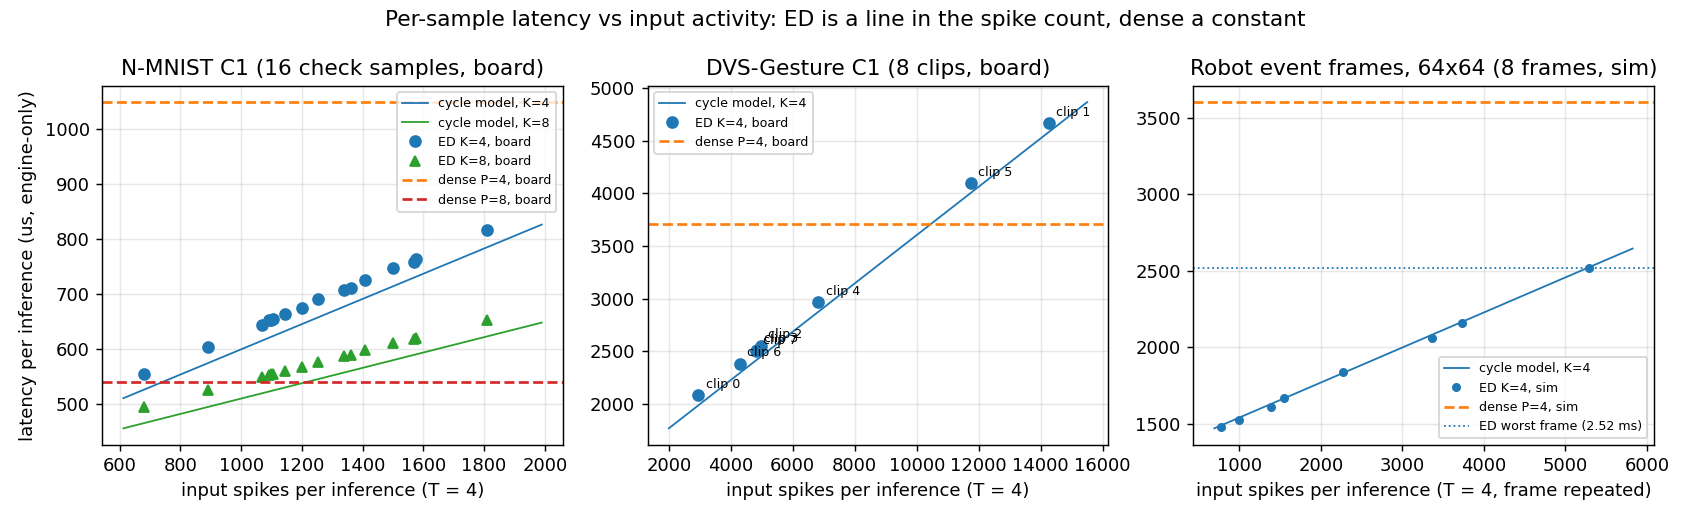
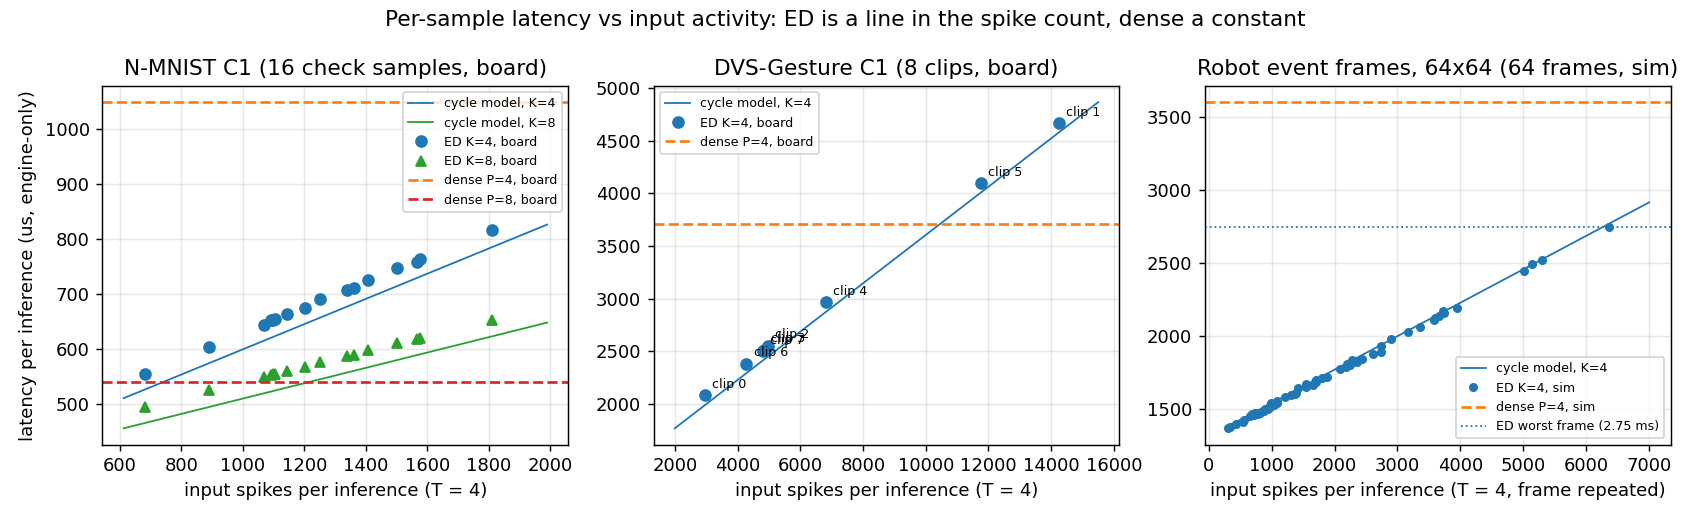
C0048: the robot-frame latency was an 8-frame number; all 64 frames benched in one run (8,388,608 comparisons bit-identical): ED K=4 1.73 ms mean / 2.75 ms worst vs dense 3.60 ms (2.09x mean, 1.31x worst); quotes corrected in place, per-sample figure reads the 64-row file

diff --git a/docs/thesis_outline_build.py b/docs/thesis_outline_build.py
@@ -12,7 +12,7 @@ from docx.enum.text import WD_ALIGN_PARAGRAPH, WD_BREAK
 from docx.oxml.ns import qn
 from docx.oxml import OxmlElement
 
-REVISED = "2026-09-20j"
+REVISED = "2026-09-20k"
 ONEDRIVE = os.path.expanduser("~/OneDrive - Carleton University/Research Papers/Final_thesis_images")
 GREEN, RED, BLUE = RGBColor(0x1B, 0x5E, 0x20), RGBColor(0xB7, 0x1C, 0x1C), RGBColor(0x0D, 0x47, 0xA1)
 PURPLE, ORANGE = RGBColor(0x6A, 0x1B, 0x9A), RGBColor(0xE6, 0x51, 0x00)
@@ -36,7 +36,7 @@ ACRONYMS = [
 OUTLINE = [
 (0, "Abstract", [
     "One paragraph (150-300 words), written last, in this order: the gap (SNN energy claims rest on tool estimates), what was built (dense and event-driven datapaths behind one wrapper on a Zynq-7020, bit-identical to a golden model on two datasets), how it was verified (33-check ladder, 14 silicon passes, zero misses), the two crossovers (parallelism, activity), the measured energy and its gap to the estimate, the perception workload.",
-    "RESULT: numbers to quote once final: ED K=4 beats dense P=4 by 1.52x on silicon (688.5 vs 1,048.9 us); dense wins at K=P=8 (540.3 vs 575.5 us); on DVS-Gesture ED wins 6 of 8 clips on silicon and loses the two densest (1.248x at the mean); accuracy 96.6-97.0 % N-MNIST, 63-69 % DVS-Gesture; robot frames ED 1.86 ms mean / 2.52 worst vs dense 3.60 ms.",
+    "RESULT: numbers to quote once final: ED K=4 beats dense P=4 by 1.52x on silicon (688.5 vs 1,048.9 us); dense wins at K=P=8 (540.3 vs 575.5 us); on DVS-Gesture ED wins 6 of 8 clips on silicon and loses the two densest (1.248x at the mean); accuracy 96.6-97.0 % N-MNIST, 63-69 % DVS-Gesture; robot frames ED 1.73 ms mean / 2.75 worst vs dense 3.60 ms (64 frames, sim).",
     "TODO: the measured-energy sentence (meter) and the student's success rates. No citations, figures or unexpanded acronyms in the abstract.",
 ]),
 (0, "Acknowledgements", [
@@ -79,7 +79,7 @@ OUTLINE = [
 ]),
 (1, "1.5  Summary of Results", [
     "Copy docs/results_ledger.md sections 1-5 as a one-page table; refresh when the meter and the student results land.",
-    "RESULT: silicon at 100 MHz, engine-only: ED K=4 688.5 us mean (554.8-815.8) vs dense P=4 1,048.9 us flat; ED K=8 575.5 vs dense P=8 540.3 us; DVS-Gesture ED K=4 2,970.8 us mean vs dense P=4 3,706.5 us flat (6 of 8 clips). Perception workload: teacher 95-99 % success per terrain; on 64 real robot event frames ED K=4 1.86 ms mean / 2.52 ms worst vs dense 3.60 ms.",
+    "RESULT: silicon at 100 MHz, engine-only: ED K=4 688.5 us mean (554.8-815.8) vs dense P=4 1,048.9 us flat; ED K=8 575.5 vs dense P=8 540.3 us; DVS-Gesture ED K=4 2,970.8 us mean vs dense P=4 3,706.5 us flat (6 of 8 clips). Perception workload: teacher 95-99 % success per terrain; on 64 real robot event frames ED K=4 1.73 ms mean / 2.75 ms worst vs dense 3.60 ms (sim).",
     "TAB: [todo] Headline table: one row per result (latency at K=P=4 and 8, per-clip crossover, trained-activity crossovers, T ceiling, energy measured vs estimated, student success), with the basis column (sim / board / gpu) and the section.",
 ]),
 (1, "1.6  Thesis Organization", [
@@ -365,10 +365,10 @@ OUTLINE = [
     "TAB: [exists] (docs/thesis_tables/lessons.md, 12 rows) Lessons table: date, symptom, where seen (synthesis / timing / silicon / second dataset), root cause, fix, guard added (check name), reference (decisions.md date or C-number).",
 ]),
 (1, "6.8  The Perception Workload: Distillation, Evaluation and Deployment", [
-    "RESULT: teacher 15,000 iterations (23.3 h, 1080 Ti), success gap 95.3 / hurdle 96.1 / parkour 97.2 / step 99.2 % under extreme-parkour's protocol (experiments/p1_distill/isaac_eval_README.md). FPGA-student distillation running (10k iterations, ETA 2026-09-21): TODO its success rates on the same protocol, GIFs per terrain (teacher and student), student-driven frames, then the stock depth student as the reference. Real robot event frames (64, direct coding): both engines bit-identical; ED K=4 1.86 ms mean / 2.52 ms worst vs dense 3.60 ms (1.94x / 1.43x). The MuJoCo recreation's earlier result (58k student vs the 11.19M reference) as precursor (experiments/p1_distill/results_fpga_*.md).",
-    "Deadline reading: per-frame spread 1.71x (robot), 2.30x (DVS-Gesture) -- the worst-case verdict differs from the mean one. TODO: FPGA-in-the-loop over SSH and the perception-rate sweep (energy per control cycle, deadline-miss rate) if time allows.",
+    "RESULT: teacher 15,000 iterations (23.3 h, 1080 Ti), success gap 95.3 / hurdle 96.1 / parkour 97.2 / step 99.2 % under extreme-parkour's protocol (experiments/p1_distill/isaac_eval_README.md). FPGA-student distillation running (10k iterations, ETA 2026-09-21): TODO its success rates on the same protocol, GIFs per terrain (teacher and student), student-driven frames, then the stock depth student as the reference. Real robot event frames (64, direct coding): both engines bit-identical; ED K=4 1.73 ms mean / 2.75 ms worst vs dense 3.60 ms (2.09x / 1.31x, all 64 frames; the first write-up's 1.86 / 2.52 ms were 8 frames, C0048). The MuJoCo recreation's earlier result (58k student vs the 11.19M reference) as precursor (experiments/p1_distill/results_fpga_*.md).",
+    "Deadline reading: per-frame spread 2.01x (robot, 64 frames), 2.24x (DVS-Gesture, board) -- the worst-case verdict differs from the mean one. TODO: FPGA-in-the-loop over SSH and the perception-rate sweep (energy per control cycle, deadline-miss rate) if time allows.",
     "How to read the student's success rates: against the teacher (the ceiling, privileged scandots), against the stock depth student (the paper's own recipe with an 11M-parameter ResNet), and against ES-Parkour's Fig. 5 (a different simulator seed and protocol, so only the ordering of terrains is comparable). State the distillation budget (10k vs the paper's unspecified) as the main caveat.",
-    "The deadline budget at 10 Hz is 100 ms; the encoder's worst frame on the board is 2.52 ms (ED) or 3.60 ms (dense), so both meet it with margin; the interesting number is the fraction of the budget and the spread, and what perception rate (20, 50, 100 Hz) each engine would first miss -- from the cycle model, then measured if the FPGA-in-the-loop run happens.",
+    "The deadline budget at 10 Hz is 100 ms; the encoder's worst frame is 2.75 ms (ED, sim over 64 frames) or 3.60 ms (dense, board-confirmed constant), so both meet it with margin; the interesting number is the fraction of the budget and the spread, and what perception rate (20, 50, 100 Hz) each engine would first miss -- from the cycle model, then measured if the FPGA-in-the-loop run happens.",
     "Student-driven frames vs teacher-driven frames: the student's own trajectories produce the activity distribution the hardware would see in deployment; compare density and ED latency between the two frame sets once the student frames are benched.",
     "FIG: [todo] One still per terrain (gap, hurdle, parkour, step) from the teacher and student GIFs, side by side, with success annotated (experiments/p1_distill/gifs/ once copied).",
     "FIG: [todo] Per-frame latency on the 64 real event frames: ED K=4 and dense, sorted by input spike count, with the worst-case and the 10 Hz budget line; add the student-driven set as a second series.",
@@ -388,7 +388,7 @@ OUTLINE = [
 ]),
 (1, "7.1  Summary of Findings", [
     "Answer RQ1-RQ3 in three paragraphs; revisit each objective from 1.3 with its number.",
-    "RQ1: crossover at K=P ~6 on both datasets (silicon-bracketed) and ~30 % input density per clip (silicon); trained-activity crossovers 43-57 % at K=P=4 falling to 26-44 % at 16 (sim). RQ2: TODO the measured ratio vs the tool's 3.1-3.2x. RQ3: the worst-case verdict flips on DVS-Gesture (dense wins the densest clips) and narrows on the robot frames (1.94x mean -> 1.43x worst).",
+    "RQ1: crossover at K=P ~6 on both datasets (silicon-bracketed) and ~30 % input density per clip (silicon); trained-activity crossovers 43-57 % at K=P=4 falling to 26-44 % at 16 (sim). RQ2: TODO the measured ratio vs the tool's 3.1-3.2x. RQ3: the worst-case verdict flips on DVS-Gesture (dense wins the densest clips) and narrows on the robot frames (2.09x mean -> 1.31x worst).",
     "One paragraph on the methodological finding (verification on one dataset is not verification; pre-registration caught one wrong model term and rejected two wrong bitstreams).",
 ]),
 (1, "7.2  Limitations", [

diff --git a/docs/references_verified.md b/docs/references_verified.md
@@ -1,0 +1,119 @@
+# Verified references for thesis Chapters 2-3
+
+Generated 2026-09-20 by checking every work named informally in the
+Chapter 2, Chapter 3 and "References" entries of `docs/thesis_outline_build.py`
+against publisher pages, Crossref/DataCite records, arXiv and the papers
+themselves. Rules used:
+
+- **VERIFIED** — a real work exists and the informal name (author / venue / year) matches it.
+- **CORRECTED** — a real work exists but the informal name has a wrong author, venue or year; the correction is given.
+- **NOT FOUND** — no matching work could be located (none in this pass).
+- DOIs are given only where a Crossref/DataCite record or the publisher page confirmed them. Blank means unconfirmed, not absent.
+- Author lists are truncated to the first author plus up to three more, then "et al.".
+- Nothing here was recalled from memory alone: every row was checked against at least one online record during this session.
+
+Companion file: `docs/references.bib` (one BibTeX entry per VERIFIED or CORRECTED row, key = firstauthorYEARkeyword).
+
+## Table 1 — works named in the outline (Chapters 2, 3 and References)
+
+| informal name as used in the outline | status | full citation | DOI / URL | note |
+|---|---|---|---|---|
+| Roy, Jaiswal and Raghunathan, Nature 2019 | CORRECTED | K. Roy, A. Jaiswal, P. Panda, "Towards spike-based machine intelligence with neuromorphic computing," *Nature*, vol. 575, no. 7784, pp. 607-617, 2019. | 10.1038/s41586-019-1677-2 | Third author is **Panda**, not Raghunathan. |
+| Tavanaei et al. 2019 | VERIFIED | A. Tavanaei, M. Ghodrati, S. R. Kheradpisheh, T. Masquelier, A. Maida, "Deep learning in spiking neural networks," *Neural Networks*, vol. 111, pp. 47-63, 2019. | 10.1016/j.neunet.2018.12.002 | |
+| Eshraghian et al., Proc. IEEE 2023 (also "snnTorch") | VERIFIED | J. K. Eshraghian, M. Ward, E. O. Neftci, X. Wang, et al., "Training spiking neural networks using lessons from deep learning," *Proc. IEEE*, vol. 111, no. 9, pp. 1016-1054, 2023. | 10.1109/JPROC.2023.3308088 | This is the snnTorch paper; cite it for both. |
+| Rueckauer et al. 2017 | VERIFIED | B. Rueckauer, I.-A. Lungu, Y. Hu, M. Pfeiffer, S.-C. Liu, "Conversion of continuous-valued deep networks to efficient event-driven networks for image classification," *Front. Neurosci.*, vol. 11, art. 682, 2017. | 10.3389/fnins.2017.00682 | |
+| Han et al. 2020 'RMP-SNN' | VERIFIED | B. Han, G. Srinivasan, K. Roy, "RMP-SNN: Residual membrane potential neuron for enabling deeper high-accuracy and low-latency spiking neural network," in *Proc. IEEE/CVF CVPR*, 2020, pp. 13555-13564. | 10.1109/CVPR42600.2020.01357 | |
+| Norse | VERIFIED | C. Pehle, J. E. Pedersen, "Norse - A deep learning library for spiking neural networks," Zenodo, Jan. 2021. | 10.5281/zenodo.4422025 | Software citation (Zenodo), no paper. |
+| SpikingJelly | VERIFIED | W. Fang, Y. Chen, J. Ding, Z. Yu, et al., "SpikingJelly: An open-source machine learning infrastructure platform for spike-based intelligence," *Science Advances*, vol. 9, no. 40, eadi1480, 2023. | 10.1126/sciadv.adi1480 | |
+| Mahowald 1992 (AER) | VERIFIED | M. Mahowald, "VLSI analogs of neuronal visual processing: a synthesis of form and function," Ph.D. dissertation, California Institute of Technology, 1992. | 10.7907/4bdw-fg34 | DOI confirmed via DataCite. Thesis (chapter on the address-event "silicon optic nerve"). |
+| Boahen 2000 | VERIFIED | K. A. Boahen, "Point-to-point connectivity between neuromorphic chips using address events," *IEEE Trans. Circuits Syst. II*, vol. 47, no. 5, pp. 416-434, 2000. | 10.1109/82.842110 | |
+| TrueNorth, Merolla et al. Science 2014 | VERIFIED | P. A. Merolla, J. V. Arthur, R. Alvarez-Icaza, A. S. Cassidy, et al., "A million spiking-neuron integrated circuit with a scalable communication network and interface," *Science*, vol. 345, no. 6197, pp. 668-673, 2014. | 10.1126/science.1254642 | |
+| Loihi, Davies et al. IEEE Micro 2018 | VERIFIED | M. Davies, N. Srinivasa, T.-H. Lin, G. Chinya, et al., "Loihi: A neuromorphic manycore processor with on-chip learning," *IEEE Micro*, vol. 38, no. 1, pp. 82-99, 2018. | 10.1109/MM.2018.112130359 | |
+| SpiNNaker, Furber et al. 2014 | VERIFIED | S. B. Furber, F. Galluppi, S. Temple, L. A. Plana, "The SpiNNaker project," *Proc. IEEE*, vol. 102, no. 5, pp. 652-665, 2014. | 10.1109/JPROC.2014.2304638 | |
+| Cerebron TVLSI 2022 | VERIFIED | Q. Chen, C. Gao, Y. Fu, "Cerebron: A reconfigurable architecture for spatiotemporal sparse spiking neural networks," *IEEE Trans. VLSI Syst.*, vol. 30, no. 10, pp. 1425-1437, 2022. | 10.1109/TVLSI.2022.3196839 | |
+| FireFly (in 2.2 list) | VERIFIED | J. Li, G. Shen, D. Zhao, Q. Zhang, Y. Zeng, "FireFly: A high-throughput hardware accelerator for spiking neural networks with efficient DSP and memory optimization," *IEEE Trans. VLSI Syst.*, vol. 31, no. 8, pp. 1178-1191, 2023. | 10.1109/TVLSI.2023.3279349 | |
+| Li TCAS-I 2021 (UESTC) | VERIFIED | S. Li, Z. Zhang, R. Mao, J. Xiao, L. Chang, J. Zhou, "A fast and energy-efficient SNN processor with adaptive clock/event-driven computation scheme and online learning," *IEEE Trans. Circuits Syst. I*, vol. 68, no. 4, pp. 1543-1552, 2021. | 10.1109/TCSI.2021.3052885 | |
+| Sorbaro et al. 2020 | VERIFIED | M. Sorbaro, Q. Liu, M. Bortone, S. Sheik, "Optimizing the energy consumption of spiking neural networks for neuromorphic applications," *Front. Neurosci.*, vol. 14, art. 662, 2020. | 10.3389/fnins.2020.00662 | Also the "rate regularisation" cite in 2.6. |
+| Davidson and Furber, Frontiers 2021 | VERIFIED | S. Davidson, S. B. Furber, "Comparison of artificial and spiking neural networks on digital hardware," *Front. Neurosci.*, vol. 15, art. 651141, 2021. | 10.3389/fnins.2021.651141 | |
+| Yik et al. 2025 NeuroBench | VERIFIED | J. Yik, K. Van den Berghe, D. den Blanken, Y. Bouhadjar, et al., "The neurobench framework for benchmarking neuromorphic computing algorithms and systems," *Nature Communications*, vol. 16, art. 1545, 2025. | 10.1038/s41467-025-56739-4 | Title is lower-case "neurobench" in the journal. |
+| Minitaur, Neil and Liu TVLSI 2014 | VERIFIED | D. Neil, S.-C. Liu, "Minitaur, an event-driven FPGA-based spiking network accelerator," *IEEE Trans. VLSI Syst.*, vol. 22, no. 12, pp. 2621-2628, 2014. | 10.1109/TVLSI.2013.2294916 | |
+| Cheng TCAS-I 2025 (Fudan) | VERIFIED | X. Cheng, S. Cao, S. Wang, M. Wang, W. Li, X. Zeng, "An FPGA-based event-driven SNN accelerator for DVS applications with structured sparsity and early-stop," *IEEE Trans. Circuits Syst. I*, vol. 72, no. 7, pp. 3298-3310, 2025. | 10.1109/TCSI.2025.3560666 | Conference precursor: ISCAS 2024, 10.1109/ISCAS58744.2024.10558416. |
+| Lichtsteiner, Posch and Delbruck 2008 | VERIFIED | P. Lichtsteiner, C. Posch, T. Delbruck, "A 128x128 120 dB 15 us latency asynchronous temporal contrast vision sensor," *IEEE J. Solid-State Circuits*, vol. 43, no. 2, pp. 566-576, 2008. | 10.1109/JSSC.2007.914337 | |
+| Gallego et al. (TPAMI 2022) | VERIFIED | G. Gallego, T. Delbruck, G. Orchard, C. Bartolozzi, et al., "Event-based vision: A survey," *IEEE Trans. Pattern Anal. Mach. Intell.*, vol. 44, no. 1, pp. 154-180, 2022. | 10.1109/TPAMI.2020.3008413 | Online 2020, print issue Jan 2022; either year is defensible, print is 2022. |
+| Lagorce et al. 2017 HOTS | VERIFIED | X. Lagorce, G. Orchard, F. Galluppi, B. E. Shi, R. Benosman, "HOTS: A hierarchy of event-based time-surfaces for pattern recognition," *IEEE Trans. Pattern Anal. Mach. Intell.*, vol. 39, no. 7, pp. 1346-1359, 2017. | 10.1109/TPAMI.2016.2574707 | |
+| Zhu et al. 2019 (voxel grids) | VERIFIED | A. Z. Zhu, L. Yuan, K. Chaney, K. Daniilidis, "Unsupervised event-based learning of optical flow, depth, and egomotion," in *Proc. IEEE/CVF CVPR*, 2019, pp. 989-997. | 10.1109/CVPR.2019.00108 | The event voxel-grid representation is introduced here. |
+| Guo et al. 2021 on coding schemes | VERIFIED | W. Guo, M. E. Fouda, A. M. Eltawil, K. N. Salama, "Neural coding in spiking neural networks: A comparative study for robust neuromorphic systems," *Front. Neurosci.*, vol. 15, art. 638474, 2021. | 10.3389/fnins.2021.638474 | Compares rate, TTFS, phase and burst coding; direct coding is in Kim 2022, not here. |
+| Kim et al. 2022 rate vs direct coding | VERIFIED | Y. Kim, H. Park, A. Moitra, A. Bhattacharjee, Y. Venkatesha, P. Panda, "Rate coding or direct coding: Which one is better for accurate, robust, and energy-efficient spiking neural networks?," in *Proc. IEEE ICASSP*, 2022, pp. 71-75. | 10.1109/ICASSP43922.2022.9747906 | |
+| Rebecq et al. 2018 ESIM | VERIFIED | H. Rebecq, D. Gehrig, D. Scaramuzza, "ESIM: an open event camera simulator," in *Proc. 2nd Conf. Robot Learning (CoRL)*, PMLR vol. 87, 2018, pp. 969-982. | https://proceedings.mlr.press/v87/rebecq18a.html | PMLR gives no DOI. |
+| Hu et al. 2021 v2e | VERIFIED | Y. Hu, S.-C. Liu, T. Delbruck, "v2e: From video frames to realistic DVS events," in *Proc. IEEE/CVF CVPR Workshops*, 2021, pp. 1312-1321. | 10.1109/CVPRW53098.2021.00144 | |
+| Orchard et al. 2015 (N-MNIST) | VERIFIED | G. Orchard, A. Jayawant, G. K. Cohen, N. Thakor, "Converting static image datasets to spiking neuromorphic datasets using saccades," *Front. Neurosci.*, vol. 9, art. 437, 2015. | 10.3389/fnins.2015.00437 | |
+| Amir et al. CVPR 2017 (DVS-Gesture) | VERIFIED | A. Amir, B. Taba, D. Berg, T. Melano, et al., "A low power, fully event-based gesture recognition system," in *Proc. IEEE CVPR*, 2017, pp. 7243-7252. | 10.1109/CVPR.2017.781 | |
+| Xilinx UG474 | VERIFIED | Xilinx, "7 Series FPGAs Configurable Logic Block User Guide (UG474)," v1.8, Sep. 2016. | https://docs.amd.com/v/u/en-US/ug474_7Series_CLB | Vendor document. |
+| Xilinx UG473 | VERIFIED | Xilinx, "7 Series FPGAs Memory Resources User Guide (UG473)," v1.14, Jul. 2019. | https://docs.amd.com/v/u/en-US/ug473_7Series_Memory_Resources | Vendor document. |
+| Xilinx UG907 | VERIFIED | Xilinx/AMD, "Vivado Design Suite User Guide: Power Analysis and Optimization (UG907)," (cite the version matching the Vivado release used, e.g. 2020.2, Nov. 2020). | https://docs.amd.com/r/en-US/ug907-vivado-power-analysis-optimization | Vendor document; state the version in the thesis. |
+| Horowitz ISSCC 2014 | VERIFIED | M. Horowitz, "1.1 Computing's energy problem (and what we can do about it)," in *IEEE ISSCC Dig. Tech. Papers*, 2014, pp. 10-14. | 10.1109/ISSCC.2014.6757323 | Source of the DRAM-vs-MAC energy ratio. |
+| Lee et al. Science Robotics 2020 | VERIFIED | J. Lee, J. Hwangbo, L. Wellhausen, V. Koltun, M. Hutter, "Learning quadrupedal locomotion over challenging terrain," *Science Robotics*, vol. 5, no. 47, eabc5986, 2020. | 10.1126/scirobotics.abc5986 | |
+| Rudin et al. CoRL 2022 | CORRECTED | N. Rudin, D. Hoeller, P. Reist, M. Hutter, "Learning to walk in minutes using massively parallel deep reinforcement learning," in *Proc. 5th Conf. Robot Learning (CoRL 2021)*, PMLR vol. 164, 2022, pp. 91-100. | https://proceedings.mlr.press/v164/rudin22a.html | The conference is **CoRL 2021** (5th CoRL, London, Nov. 2021); the PMLR proceedings volume carries year 2022. Cite as CoRL 2021 / PMLR 164 (2022). |
+| Cheng et al. 2023 (extreme parkour) | CORRECTED | X. Cheng, K. Shi, A. Agarwal, D. Pathak, "Extreme parkour with legged robots," in *Proc. IEEE ICRA*, 2024, pp. 11443-11450. | 10.1109/ICRA57147.2024.10610200 | Peer-reviewed venue is **ICRA 2024**; 2023 is the arXiv preprint (2309.14341). Cite the ICRA version. |
+| Zhuang et al. 2023 (robot parkour learning) | VERIFIED | Z. Zhuang, Z. Fu, J. Wang, C. Atkeson, et al., "Robot parkour learning," in *Proc. 7th Conf. Robot Learning (CoRL)*, PMLR vol. 229, 2023, pp. 73-92. | https://proceedings.mlr.press/v229/zhuang23a.html | |
+| ES-Parkour (Zhang et al., ICME 2025) | VERIFIED | Q. Zhang, J. Cao, J. Sun, Y. Shao, et al., "ES-Parkour: Advanced robot parkour with bio-inspired event camera and spiking neural network," in *Proc. IEEE Int. Conf. Multimedia and Expo (ICME)*, 2025, pp. 1-6. | 10.1109/ICME59968.2025.11209556 | DOI in the outline resolves in Crossref to this paper. arXiv 2503.09985. |
+| Guerra-Hernandez et al. 2017 | VERIFIED | E. I. Guerra-Hernandez, A. Espinal, P. Batres-Mendoza, C. H. Garcia-Capulin, et al., "A FPGA-based neuromorphic locomotion system for multi-legged robots," *IEEE Access*, vol. 5, pp. 8301-8312, 2017. | 10.1109/ACCESS.2017.2696985 | Spartan-6; biped, quadruped and hexapod CPGs. |
+| Sengupta 2019 | VERIFIED | A. Sengupta, Y. Ye, R. Wang, C. Liu, K. Roy, "Going deeper in spiking neural networks: VGG and residual architectures," *Front. Neurosci.*, vol. 13, art. 95, 2019. | 10.3389/fnins.2019.00095 | |
+| Neftci, Mostafa and Zenke 2019 | VERIFIED | E. O. Neftci, H. Mostafa, F. Zenke, "Surrogate gradient learning in spiking neural networks: Bringing the power of gradient-based optimization to spiking neural networks," *IEEE Signal Process. Mag.*, vol. 36, no. 6, pp. 51-63, 2019. | 10.1109/MSP.2019.2932551 | |
+| Wu et al. 2018 STBP | VERIFIED | Y. Wu, L. Deng, G. Li, J. Zhu, L. Shi, "Spatio-temporal backpropagation for training high-performance spiking neural networks," *Front. Neurosci.*, vol. 12, art. 331, 2018. | 10.3389/fnins.2018.00331 | |
+| Jacob et al. 2018 | VERIFIED | B. Jacob, S. Kligys, B. Chen, M. Zhu, et al., "Quantization and training of neural networks for efficient integer-arithmetic-only inference," in *Proc. IEEE/CVF CVPR*, 2018, pp. 2704-2713. | 10.1109/CVPR.2018.00286 | |
+| Putra and Shafique 2021 'Q-SpiNN' | VERIFIED | R. V. W. Putra, M. Shafique, "Q-SpiNN: A framework for quantizing spiking neural networks," in *Proc. Int. Joint Conf. Neural Networks (IJCNN)*, 2021. | 10.1109/IJCNN52387.2021.9534087 | |
+| Brevitas | VERIFIED | A. Pappalardo, G. Franco, N. J. Fraser, et al., "Xilinx/brevitas," Zenodo. | 10.5281/zenodo.3333552 | Software citation (Zenodo concept DOI); cite the version used. |
+| Pellegrini et al. 2021 (low-activity SNNs) | VERIFIED | T. Pellegrini, R. Zimmer, T. Masquelier, "Low-activity supervised convolutional spiking neural networks applied to speech commands recognition," in *Proc. IEEE Spoken Language Technology Workshop (SLT)*, 2021, pp. 97-103. | 10.1109/SLT48900.2021.9383587 | |
+| Harmeling NCE 2026 | VERIFIED | P. Harmeling, F. De Geeter, G. Drion, "Energy-efficient implementation of spiking recurrent cells on FPGA," *Neuromorphic Computing and Engineering*, vol. 6, no. 2, art. 024022, 2026. | 10.1088/2634-4386/ae759c | Artix-7 XC7A200T, 100 MHz, MNIST 96.31 %, Vivado post-implementation power 1.13 W incl. HUB75 display -- matches the baseline-table row. |
+| FireFly-P 2026 | VERIFIED | T. Li, J. Li, G. Shen, D. Zhao, Q. Zhang, Y. Zeng, "FireFly-P: FPGA-accelerated spiking neural network plasticity for robust adaptive control," arXiv:2601.21222, Jan. 2026 (accepted, IEEE ISCAS 2026). | https://arxiv.org/abs/2601.21222 | No DOI yet; update to the ISCAS record when it appears. |
+| Nagy et al. (Loihi 2 vs GPU) | VERIFIED | A. Nagy, R. Szabo, L. Toka, "Analyzing energy consumption of Loihi 2 neuromorphic chip in a self-driving use-case," in *Proc. 10th Int. Conf. Smart and Sustainable Technologies (SpliTech)*, 2025, pp. 1-6. | 10.23919/SpliTech65624.2025.11091800 | Also Zenodo record 16737401. |
+| IsaacGym | VERIFIED | V. Makoviychuk, L. Wawrzyniak, Y. Guo, M. Lu, et al., "Isaac Gym: High performance GPU-based physics simulation for robot learning," in *NeurIPS Datasets and Benchmarks Track*, 2021. arXiv:2108.10470. | https://arxiv.org/abs/2108.10470 | |
+| Koravuna et al. (source of Harmeling's Table 4 neuron-cost figures) | CORRECTED | Sanaullah, S. Koravuna, U. Rueckert, T. Jungeblut, "Exploring spiking neural networks: a comprehensive analysis of mathematical models and applications," *Front. Comput. Neurosci.*, vol. 17, art. 1215824, 2023. | 10.3389/fncom.2023.1215824 | First author is **Sanaullah** (single name); Koravuna is second. Confirm against Harmeling's reference list that this is the work Table 4 credits before citing it as the neuron-cost source. |
+
+Counts: 53 rows; 49 VERIFIED, 4 CORRECTED, 0 NOT FOUND.
+
+Unnamed items in the outline that still need a citation and were **not** searched here: "works on action/observation delay in RL locomotion" (2.5) and "papers that rarely state which reset they built" (2.1, a claim rather than a cite).
+
+## Table 2 — the three TODO searches, plus the FireFly-S and Spiker+ rows
+
+All rows are proposals; status says how far each was checked. "Verified" = bibliographic record confirmed (Crossref/publisher/arXiv) and the method claim read in the paper or its abstract.
+
+### TODO (1) — assessments of Vivado / XPE power-estimate accuracy against board measurement (2.4)
+
+| proposed work | status | full citation | DOI / URL | what it gives the thesis |
+|---|---|---|---|---|
+| Lin et al., PowerGear, DATE 2022 | verified (paper read) | Z. Lin, Z. Yuan, J. Zhao, W. Zhang, H. Wang, Y. Tian, "PowerGear: Early-stage power estimation in FPGA HLS via heterogeneous edge-centric GNNs," in *Proc. DATE*, 2022, pp. 1341-1346. | 10.23919/DATE54114.2022.9774682 (arXiv 2201.10114) | Table I: Vivado power estimator (post-implementation netlist + SAIF from vector-based simulation) vs on-board measurement on a **ZCU102** via the Zynq UltraScale+ Power Advantage Tool, nine PolyBench HLS designs at 100 MHz: **average total-power error 21.82 %** (range 11.0-28.3 %), always over-estimating relative to measurement; states Vivado "neglects the impact of power gating on unused hard blocks." The sign-and-magnitude figure 2.4 asks for. |
+| Lin et al., HL-Pow, ASP-DAC 2020 | verified (abstract) | Z. Lin, J. Zhao, S. Sinha, W. Zhang, "HL-Pow: A learning-based power modeling framework for high-level synthesis," in *Proc. ASP-DAC*, 2020. | 10.1109/ASP-DAC47756.2020.9045442 (arXiv 2009.00871) | Ground truth is on-board measurement; the learned model is "only 4.67 % (24.02 mW) away from onboard power measurement." Board not named in the abstract; same group as PowerGear. Cite as the precursor. |
+| Lin, Sinha, Zhang, TCAD 2018 | verified (abstract) -- weaker fit | Z. Lin, S. Sinha, W. Zhang, "An ensemble learning approach for in-situ monitoring of FPGA dynamic power," *IEEE Trans. CAD*, 2018. | 10.1109/TCAD.2018.2859248 (arXiv 2009.01432) | Compares against a commercial gate-level power tool, **not** a meter; useful only for the point that even model-vs-tool error is several percent. Do not cite as meter evidence. |
+| (not suitable) Tripathi and Rajawat 2018; FPEV_Tool 2018 | checked, rejected | A. N. Tripathi, A. Rajawat, *Microprocessors and Microsystems*, vol. 59, pp. 37-45, 2018; "FPEV_Tool," *Wireless Personal Communications*, 2018. | 10.1007/s11277-018-5938-4 (FPEV) | Both validate against Vivado / XPower, not against measurement. Listed so the search is not repeated. |
+
+### TODO (2) — event-camera perception on legged robots or drones, 2022-2026 (2.5, 3.3)
+
+| proposed work | status | full citation | DOI / URL | what it gives the thesis |
+|---|---|---|---|---|
+| Paredes-Valles et al., Science Robotics 2024 | verified (record + abstract) | F. Paredes-Valles, J. J. Hagenaars, J. Dupeyroux, S. Stroobants, Y. Xu, G. C. H. E. de Croon, "Fully neuromorphic vision and control for autonomous drone flight," *Science Robotics*, vol. 9, no. 90, eadi0591, 2024. | 10.1126/scirobotics.adi0591 | Event camera + SNN on Loihi on board a quadrotor; abstract reports Loihi at 200 Hz, 0.94 W idle plus 7-12 mW for the network -- one of the few robot works that reports a chip-level power number (check the methods for how it was obtained before calling it measured). Erratum: 10.1126/scirobotics.adr0223. |
+| Zhu, Xiong, Kim, RA-L 2024 (CEAR) | verified (record + abstract) | S. Zhu, Z. Xiong, D. Kim, "CEAR: Comprehensive event camera dataset for rapid perception of agile quadruped robots," *IEEE Robot. Autom. Lett.*, 2024. | 10.1109/LRA.2024.3426373 (arXiv 2404.04698) | Mini Cheetah quadruped with event cameras, RGB-D, IMU, LiDAR; 100+ sequences. Evidence of the trend toward event vision on legged robots; no energy claim. |
+| Bhattacharya et al., CoRL 2024 | verified (arXiv) | A. Bhattacharya, M. Cannici, N. Rao, Y. Tao, V. Kumar, N. Matni, D. Scaramuzza, "Monocular event-based vision for obstacle avoidance with a quadrotor," in *Proc. Conf. Robot Learning (CoRL)*, 2024. arXiv:2411.03303. | https://arxiv.org/abs/2411.03303 | Learned event-based avoidance on a quadrotor, sim-to-real; no power reported -- supports "energy is not measured" pattern. PMLR volume/pages not confirmed. |
+| Jiang et al. 2024 (Loihi dodging) | verified (arXiv) | J. Jiang, D. Kong, C. Hu, Z. Fang, "Fully asynchronous neuromorphic perception for mobile robot dodging with Loihi chips," arXiv:2410.10601, 2024. | https://arxiv.org/abs/2410.10601 | Event camera + Loihi on a mobile (wheeled) robot; reports energy relative to a Jetson Orin NX. Wheeled, not legged -- use only if a third robot example is needed. |
+| Lopez-Osorio et al., Adv. Intell. Syst. 2024 | verified (record) | P. Lopez-Osorio, J. P. Dominguez-Morales, F. Perez-Pena, "A neuromorphic vision and feedback sensor fusion based on spiking neural networks for real-time robot adaption," *Advanced Intelligent Systems*, vol. 6, no. 5, 2024. | 10.1002/aisy.202300646 | Hexapod robot, neuromorphic retina inputs, SNN on SpiNNaker adapting gait speed/orientation. Legged + event sensor. Full text not read (paywall); confirm the power statement before citing it for energy. |
+| Bian et al. 2023 (ColibriUAV) | verified (arXiv) | S. Bian, L. Schulthess, G. Rutishauser, A. Di Mauro, L. Benini, M. Magno, "ColibriUAV: An ultra-fast, energy-efficient neuromorphic edge processing UAV-platform with event-based and frame-based cameras," arXiv:2305.18371, 2023. | https://arxiv.org/abs/2305.18371 | Nano-drone with DVS + RISC-V "Kraken" SoC; reports measured 10.7 mW for the event interface. Venue of record not confirmed. |
+
+### TODO (3) — FPGA accelerator papers (any domain) that report board- or rail-measured power alongside a tool estimate (2.4, 3.4)
+
+| proposed work | status | full citation | DOI / URL | what it gives the thesis |
+|---|---|---|---|---|
+| Umuroglu et al., FINN, FPGA 2017 | verified (paper read) | Y. Umuroglu, N. J. Fraser, G. Gambardella, M. Blott, P. Leong, M. Jahre, K. Vissers, "FINN: A framework for fast, scalable binarized neural network inference," in *Proc. ACM/SIGDA Int. Symp. FPGA*, 2017, pp. 65-74. | 10.1145/3020078.3021744 | Sec. 5.1: two measurements per prototype on a **ZC706** -- P_chip "using the PMBus interface to monitor the FPGA power supply rails" and P_wall "using a wall power meter," averaged over 10 s; Table 3 lists both (e.g. SFC-max 7.3 W chip / 21.2 W wall); notes ~7 W board idle. **No Vivado estimate is reported** -- cite as "measurement is cheap and standard," not as an estimate-vs-meter comparison. |
+| Le et al., PACOX, 2026 (arXiv) | verified (HTML read) | T. X. H. Le, T. H. Vu, V. T. D. Le, H. L. Pham, Y. Nakashima, "PACOX: A FPGA-based Pauli composer accelerator for Pauli string computation," arXiv:2601.04827, 2026 (submitted to COOL Chips 29). | https://arxiv.org/abs/2601.04827 | Reports **both**: Vivado post-implementation estimate 0.33 W (Sec. IV-A) and INA226 on-board measurement on a **ZCU102** (Sec. IV-B: system max 2.58 W, dynamic 0.24 W, effective 0.96 W). Not neural-network; not yet peer-reviewed. Closest match to the TODO's wording. |
+| Al Hafiz et al. 2025 (arXiv) | verified (HTML read) | M. I. Al Hafiz, N. Ravichandran, A. Lansner, P. Herman, A. Podobas, "Embedded FPGA acceleration of brain-like neural networks: Online learning to scalable inference," arXiv:2506.18530, 2025. | https://arxiv.org/abs/2506.18530 | Neural-network accelerator on a **ZCU104** measured with the on-board INA226 at 10 ms intervals; defines "board power" vs "execution power" (active minus idle) and says the true accelerator power lies between -- the same boundary argument as C0004/C0038. No tool estimate reported. |
+| Qasaimeh et al., ICESS 2019 | verified (record) -- method to confirm | M. Qasaimeh, K. Denolf, J. Lo, K. Vissers, J. Zambreno, P. H. Jones, "Comparing energy efficiency of CPU, GPU and FPGA implementations for vision kernels," in *Proc. IEEE ICESS*, 2019, pp. 1-8. | 10.1109/ICESS.2019.8782524 (arXiv 1906.11879) | ZCU102 vs ARM vs Jetson TX2 for OpenCV kernels; search summary says on-board power IC per rail. Read the paper before citing the method. |
+| Lin et al., PowerGear, DATE 2022 (again) | verified (paper read) | see TODO (1) | 10.23919/DATE54114.2022.9774682 | Doubles as TODO (3) evidence: the same paper holds a Vivado estimate and a ZCU102 rail measurement side by side for nine designs. |
+
+### Baseline-table rows: FireFly-S and Spiker+ (3.1, docs/baseline_table.md)
+
+| work | citation | DOI | platform | network / dataset | accuracy | clock | latency / throughput | resources | power, and how obtained |
+|---|---|---|---|---|---|---|---|---|---|
+| FireFly-S | T. Li, J. Li, G. Shen, D. Zhao, Q. Zhang, Y. Zeng, "FireFly-S: Exploiting dual-side sparsity for spiking neural networks acceleration with reconfigurable spatial architecture," *IEEE Trans. Circuits Syst. I*, vol. 72, no. 8, pp. 4007-4020, 2025. | 10.1109/TCSI.2024.3496554 (arXiv 2408.15578) | Xilinx Zynq UltraScale+ XCZU5EV on the KV260 Vision AI Starter Kit | 4-bit weights, >= 85 % weight sparsity; SCNN5 / SCNN7 / SCNN9 on MNIST / DVS-Gesture / CIFAR-10 | 98.03 % / 92.05 % / 87.00 % (per arXiv v3 HTML) | 333 MHz | 10,047 / 3,683 / 2,327 FPS (arXiv HTML); the abstract phrases the same numbers as FPS/W -- **transcribe from the paper's results table with the PDF in hand** | [fill from Table in paper] | 1.301 / 1.821 / 3.799 W; **tool estimate**: "the power consumption estimates are derived from the reports generated by the Vivado Design Suite" (arXiv v3). |
+| Spiker+ | A. Carpegna, A. Savino, S. Di Carlo, "Spiker+: A framework for the generation of efficient spiking neural networks FPGA accelerators for inference at the edge," *IEEE Trans. Emerging Topics in Computing*, vol. 13, no. 3, pp. 784-798, 2025. | 10.1109/TETC.2024.3511676 (arXiv 2401.01141) | Xilinx XC7Z020 (Zynq-7020, same fabric as the ZedBoard) | 784-128-10 FF-FC, I-order LIF, subtractive reset, 6-bit membrane / 4-bit weights, T = 100, rate coding -- MNIST; 700-200-20 FC-R, II-order LIF -- SHD | 93.85 % MNIST (hardware; 96.83 % software); 72.99 % SHD | 100 MHz (capped by BRAM access time) | 780 us/image MNIST; 540 us SHD | MNIST: 7,612 logic cells (4,314 LUT + 3,298 FF), 18 BRAM, 0 DSP; SHD: 18,268 cells, 51 BRAM | 180 mW MNIST, 430 mW SHD; **method not stated on the pages read** (arXiv v1 Sec. 6); Table 4 is headed "Synthesis of maximum size accelerator" with a power column, so the figures appear tool-derived -- confirm in the TETC version before entering "tool estimate" in the table. |
+
+Note for 3.1/3.2: Spiker+ Sec. 6.1 makes the observation that in its own comparison table "the top power-efficient accelerators employ a clock-driven update policy," which it calls counterintuitive against the literature's preference for event-driven -- a second 2024-25 peer-reviewed statement (beside Harmeling's) that the dense-vs-event trade-off is asserted rather than measured.

diff --git a/docs/corrections.md b/docs/corrections.md
@@ -997,6 +997,22 @@ decision entry before it is built.
 **Done when:** both windows have a trained student and a bench row, or the
 decision log says why only one is reported.
 ---
+## C0048 — The "64 real frames" latency numbers were computed on 8 frames (P2, fixed)
+**Problem.** The 2026-09-18 write-up (decisions.md, ledger, robot/isaac/README.md,
+outline) quoted ED K=4 1.86 ms mean / 2.52 ms worst / 1.94x / 1.43x "on 64 real
+robot event frames". The vector exporter's default is 8 samples and the ED
+testbench's sample capacity was a fixed 16, so the bench ran on the first 8 frames;
+the committed cycle file has 8 rows. The numbers were correct for 8 frames and
+mislabelled as 64.
+**Fix (2026-09-20).** Testbench capacity made a parameter (MAX_SAMPLES, default
+16, behaviour unchanged; ladder spot check passes), the runner passes NS through,
+the exporter takes I1_SAMPLES; all 64 frames benched in one run: 8,388,608
+comparisons bit-identical, ED K=4 1.73 ms mean / 2.75 ms worst (spread 2.01x),
+dense 3.60 ms: 2.09x mean, 1.31x worst. Every quote corrected in place with a
+note. The lesson joins C0044's: a claim about N samples needs the N-row file
+beside it (the per-sample figure now reads the 64-row file directly).
+**Done when:** done.
+---
 ## Closing note on this review
 Three passes have been made: methodology (C0001–C0017), measurement
 accuracy and missing experiments (C0018–C0027), design and internal

diff --git a/robot/isaac/README.md b/robot/isaac/README.md
@@ -46,9 +46,14 @@ weights (threshold 16): corner exposure TL 0 / TR 0 / BL 24 / BR 20 of
 there), which is why the synthetic r1 set stays the ladder's guard.
 Both engines bit-identical on the real frames (ED K=4: 1,048,576
 comparisons, 19,372 input spikes; dense P=4: 1,572,864 comparisons).
-ED K=4 per sample: mean 185,616 cycles (1.86 ms), min 147,472, max
-251,872 (spread 1.71x) against dense P=4 at 360,444 cycles (3.60 ms):
-ED 1.94x on the mean, 1.43x on the worst frame. These are the year-two
+ED K=4 per sample over all 64 frames: mean 172,600 cycles (1.73 ms), min
+136,800, max 274,600 (spread 2.01x) against dense P=4 at 360,444 cycles
+(3.60 ms): ED 2.09x on the mean, 1.31x on the worst frame. (Correction
+2026-09-20: the first write-up quoted 1.86 / 2.52 ms and 1.94x / 1.43x; those
+were the exporter's default first 8 frames, not 64 -- C0048. The 64-frame
+bench needed the testbench's sample capacity made a parameter; per-frame
+cycles in experiments/p1_distill/isaac_i1_ed_k4_cycles_64.txt, 8,388,608
+comparisons bit-identical.) These are the year-two
 workload's C1 numbers with placeholder (MuJoCo-distilled) weights; the
 cycles are weight-independent for a given frame set, the accuracy is not.
 

diff --git a/docs/decisions.md b/docs/decisions.md
@@ -3243,3 +3243,15 @@ build, the crossover heat map, the three input sources) and seven thesis
 tables generated from repository files (docs/thesis_tables/). The ED
 testbench's sample capacity became a parameter (MAX_SAMPLES, default 16,
 behaviour unchanged) so the 64 robot frames can be benched in one run.
+
+## 2026-09-20 — C0048: the robot-frame latency was an 8-frame number; all 64 frames now benched
+
+The 2026-09-18 "64 real frames" figures (1.86 ms mean / 2.52 ms worst,
+1.94x / 1.43x) came from the exporter's default 8 samples; the testbench's
+capacity was a fixed 16. Capacity is now a parameter, and all 64 frames ran
+in one bench: 8,388,608 comparisons bit-identical, ED K=4 1.73 ms mean /
+2.75 ms worst (spread 2.01x) against dense 3.60 ms: 2.09x on the mean,
+1.31x on the worst frame. The mean improves and the worst-case margin
+shrinks -- the deadline reading moves the right way for the thesis's
+argument (worst case matters more than mean). Corrected in place in the
+ledger, the robot README and the outline; recorded as C0048.

diff --git a/docs/results_ledger.md b/docs/results_ledger.md
@@ -115,8 +115,10 @@ equal DVS-Gesture's at every K (`experiments/rate_sweep/README.md`).
   ~13.6 s each, ETA 2026-09-21 ~03:00. Queued after it: GIFs per terrain,
   student evaluation, student-driven frames.
 - Real robot event frames (64, teacher-driven, direct coding): both
-  engines bit-identical; ED K=4 1.86 ms mean, 2.52 ms worst, dense 3.60
-  ms: **1.94x mean, 1.43x worst frame** (placeholder weights; cycles
+  engines bit-identical; ED K=4 1.73 ms mean, 2.75 ms worst (spread 2.01x),
+  dense 3.60 ms: **2.09x mean, 1.31x worst frame** over all 64 frames
+  (C0048: the earlier 1.86 / 2.52 ms were the first 8 frames only;
+  `experiments/p1_distill/isaac_i1_ed_k4_cycles_64.txt`) (placeholder weights; cycles
   are weight-independent).
 
 ## 6. What is NOT here, and why
